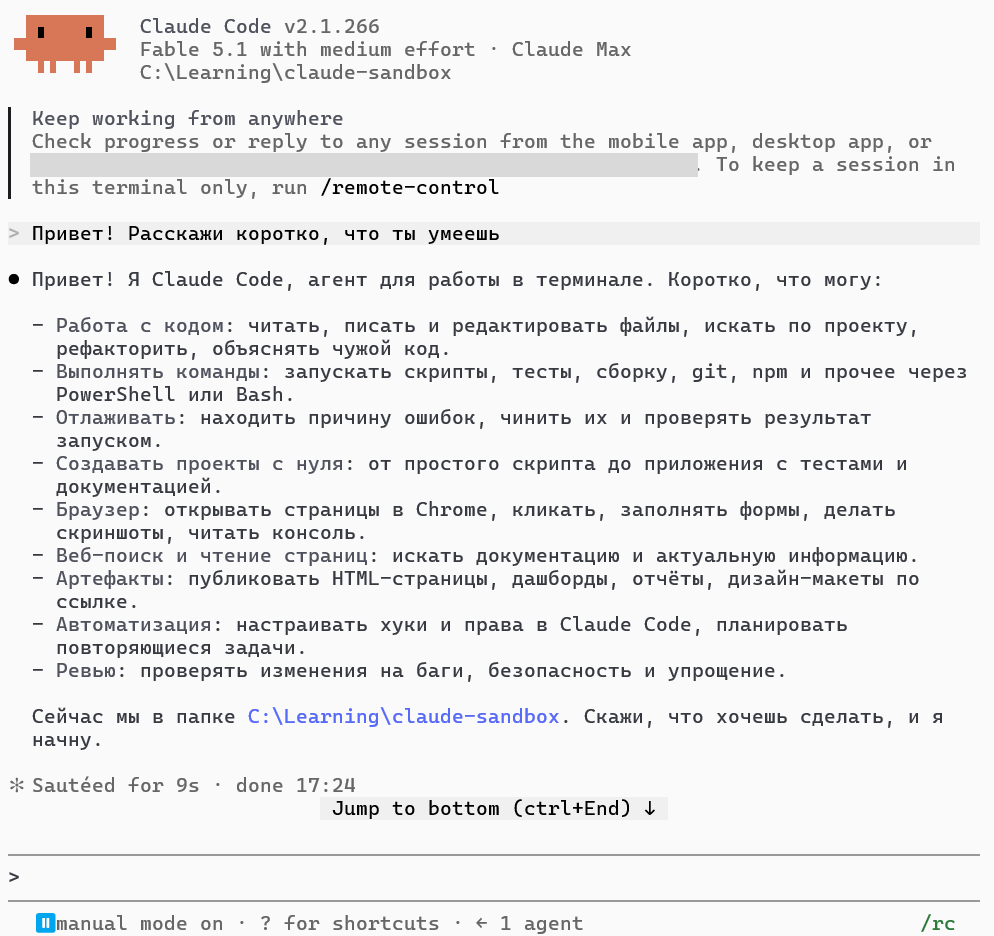
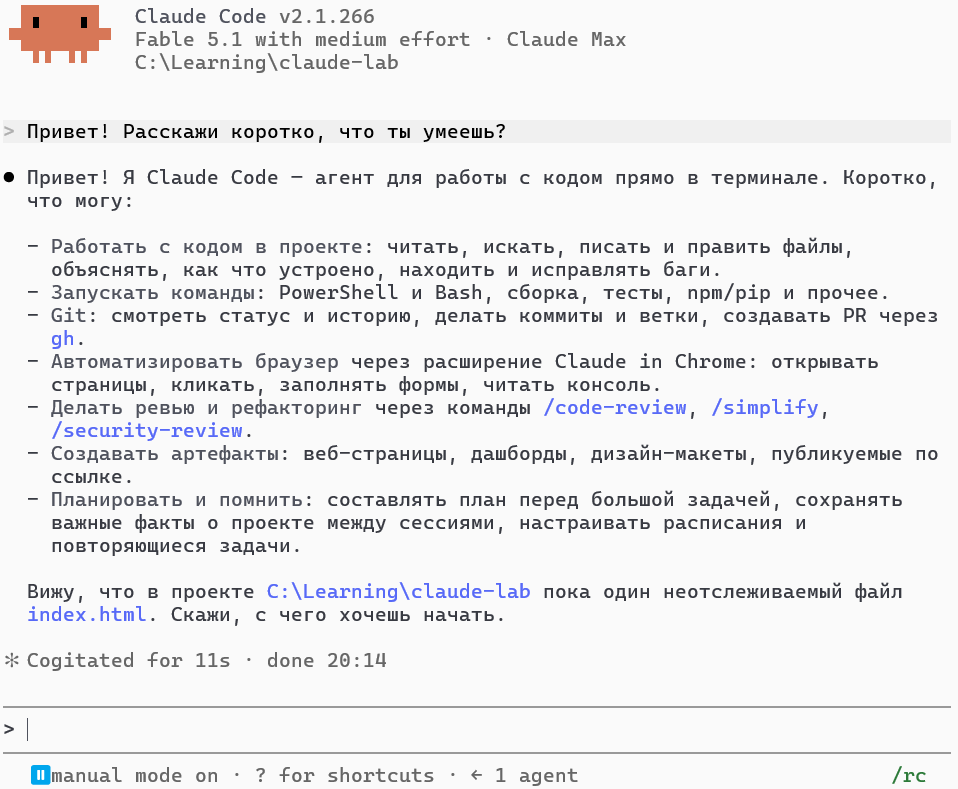
content: reshoot 01-02 and 01-06 on the Shelf project; crop script robust to diff frames
- 01-02-first-run: session now runs in claude-lab
- 01-06-diff-prompt: first Shelf edit of index.html with the permission prompt
- 00-03 title no longer mentions Claude (the edit there is made by hand)
- crop-screenshots.ps1: background by grid vote, chrome rows only when strongly
  different, already-cropped check by height so reruns leave frames untouched

Claude-Session: https://claude.ai/code/session_01YLXXwxCSLAdohEeLkjdiqv

diff --git a/content/tasks/task-00-03.md b/content/tasks/task-00-03.md
@@ -1,7 +1,7 @@
 ---
 id: "00-03"
 module: "00"
-title: "Увидеть, что изменил Claude"
+title: "Diff: увидеть, что изменилось"
 difficulty: easy
 estimated_minutes: 10
 verified_date: "2026-09-09"
